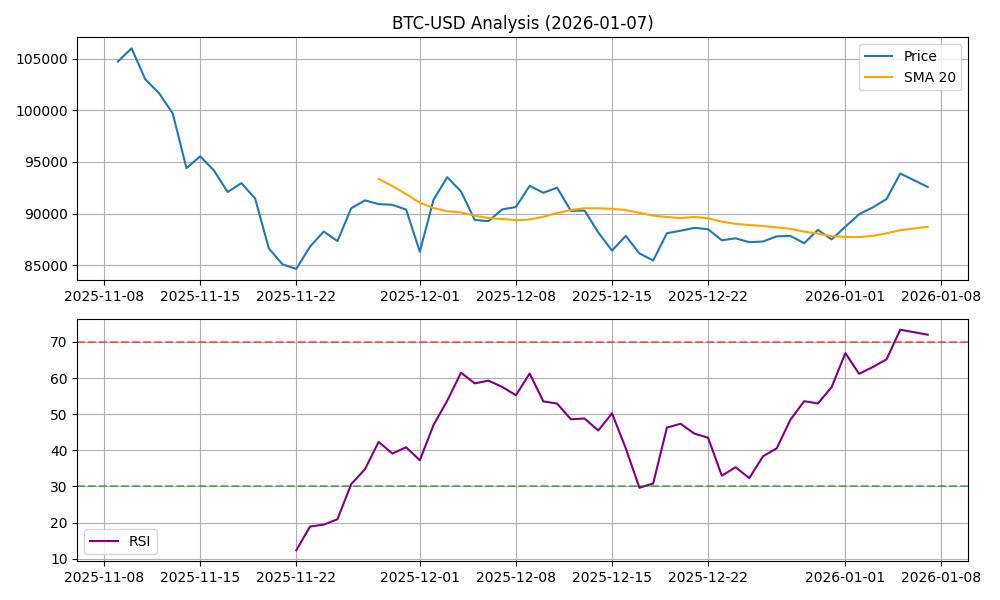
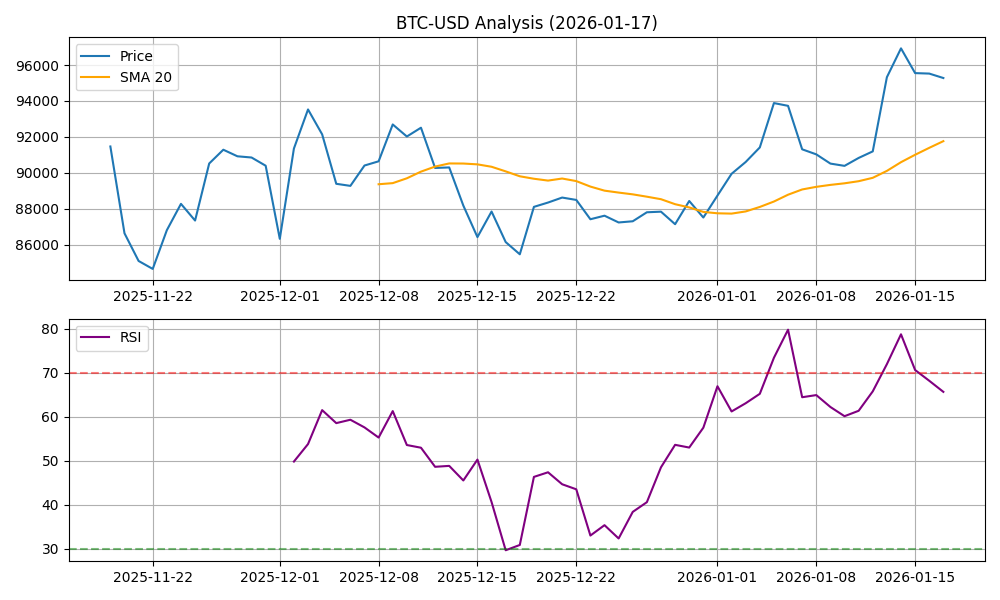
Update market analysis chart. Log tech sentiment stats. Refreshed Dashboard.

diff --git a/README.md b/README.md
@@ -1,6 +1,6 @@
 # 🤖 Advanced Engineering Automation Dashboard
 
-**Auto-generated Report** | Last Updated: 2026-01-13 22:27:12
+**Auto-generated Report** | Last Updated: 2026-01-17 22:27:24
 
 > **Project Overview**
 > This project performs real data fetching and analysis.
@@ -11,15 +11,15 @@
 > *This is a legitimate "Data Collection & Analysis" project, not a fake commit generator.*
 
 ## 📊 Market Pulse (CryptoAnalyst)
-> 2026-01-07 10:27:07.647504: BTC $92584.23 | RSI: 71.98
+> 2026-01-17 22:27:12.758324: BTC $95278.21 | RSI: 65.62
 
 ![BTC Analysis](data/btc_analysis.png)
 
 ## 📰 Tech Sentiment (NewsPulse)
-## 2026-01-07
-- **Tech Mood**: Negative 📉 (Score: -0.02)
-- **Top Story**: Sergey Brin's Unretirement
-- **Sample**: _The creator of Claude Code's Claude setup_
+## 2026-01-17
+- **Tech Mood**: Neutral 😐 (Score: 0.00)
+- **Top Story**: ASCII characters are not pixels: a deep dive into ASCII rendering
+- **Sample**: _We Put Claude Code in Rollercoaster Tycoon_
 
 
 

diff --git a/data/daily_digest.md b/data/daily_digest.md
@@ -38,3 +38,8 @@
 - **Top Story**: Sergey Brin's Unretirement
 - **Sample**: _The creator of Claude Code's Claude setup_
 
+## 2026-01-17
+- **Tech Mood**: Neutral 😐 (Score: 0.00)
+- **Top Story**: ASCII characters are not pixels: a deep dive into ASCII rendering
+- **Sample**: _We Put Claude Code in Rollercoaster Tycoon_
+
